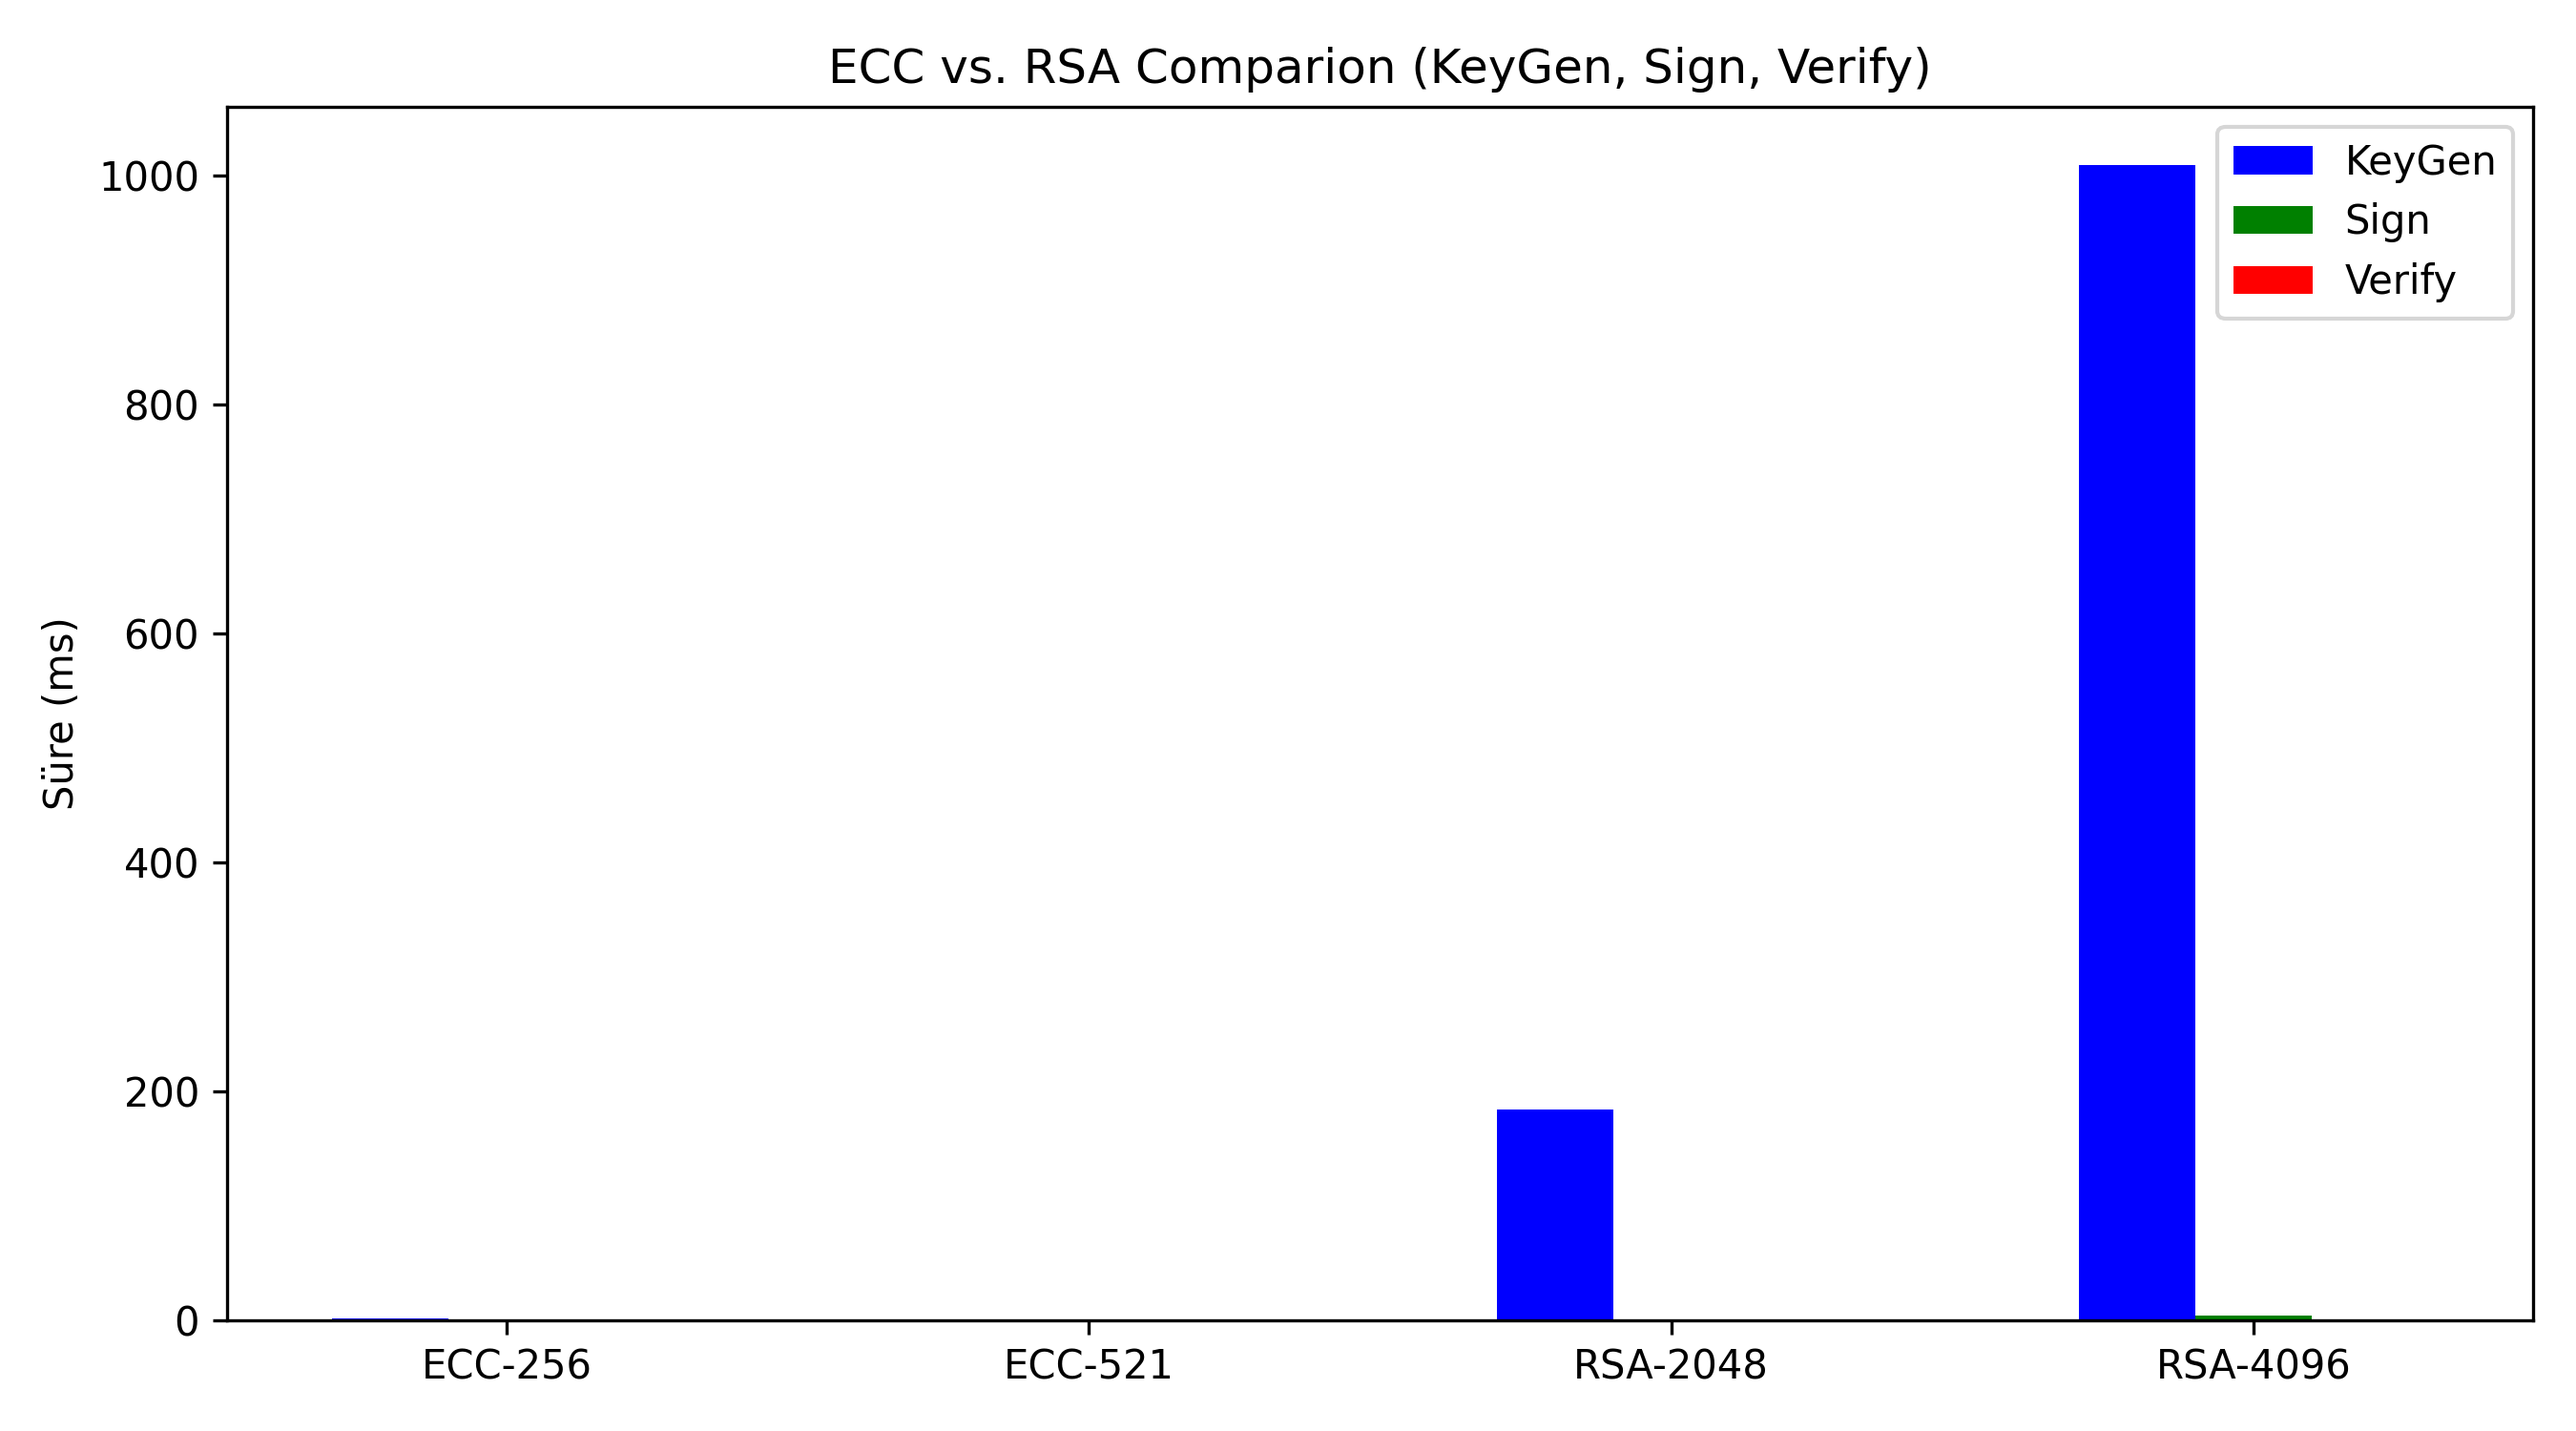
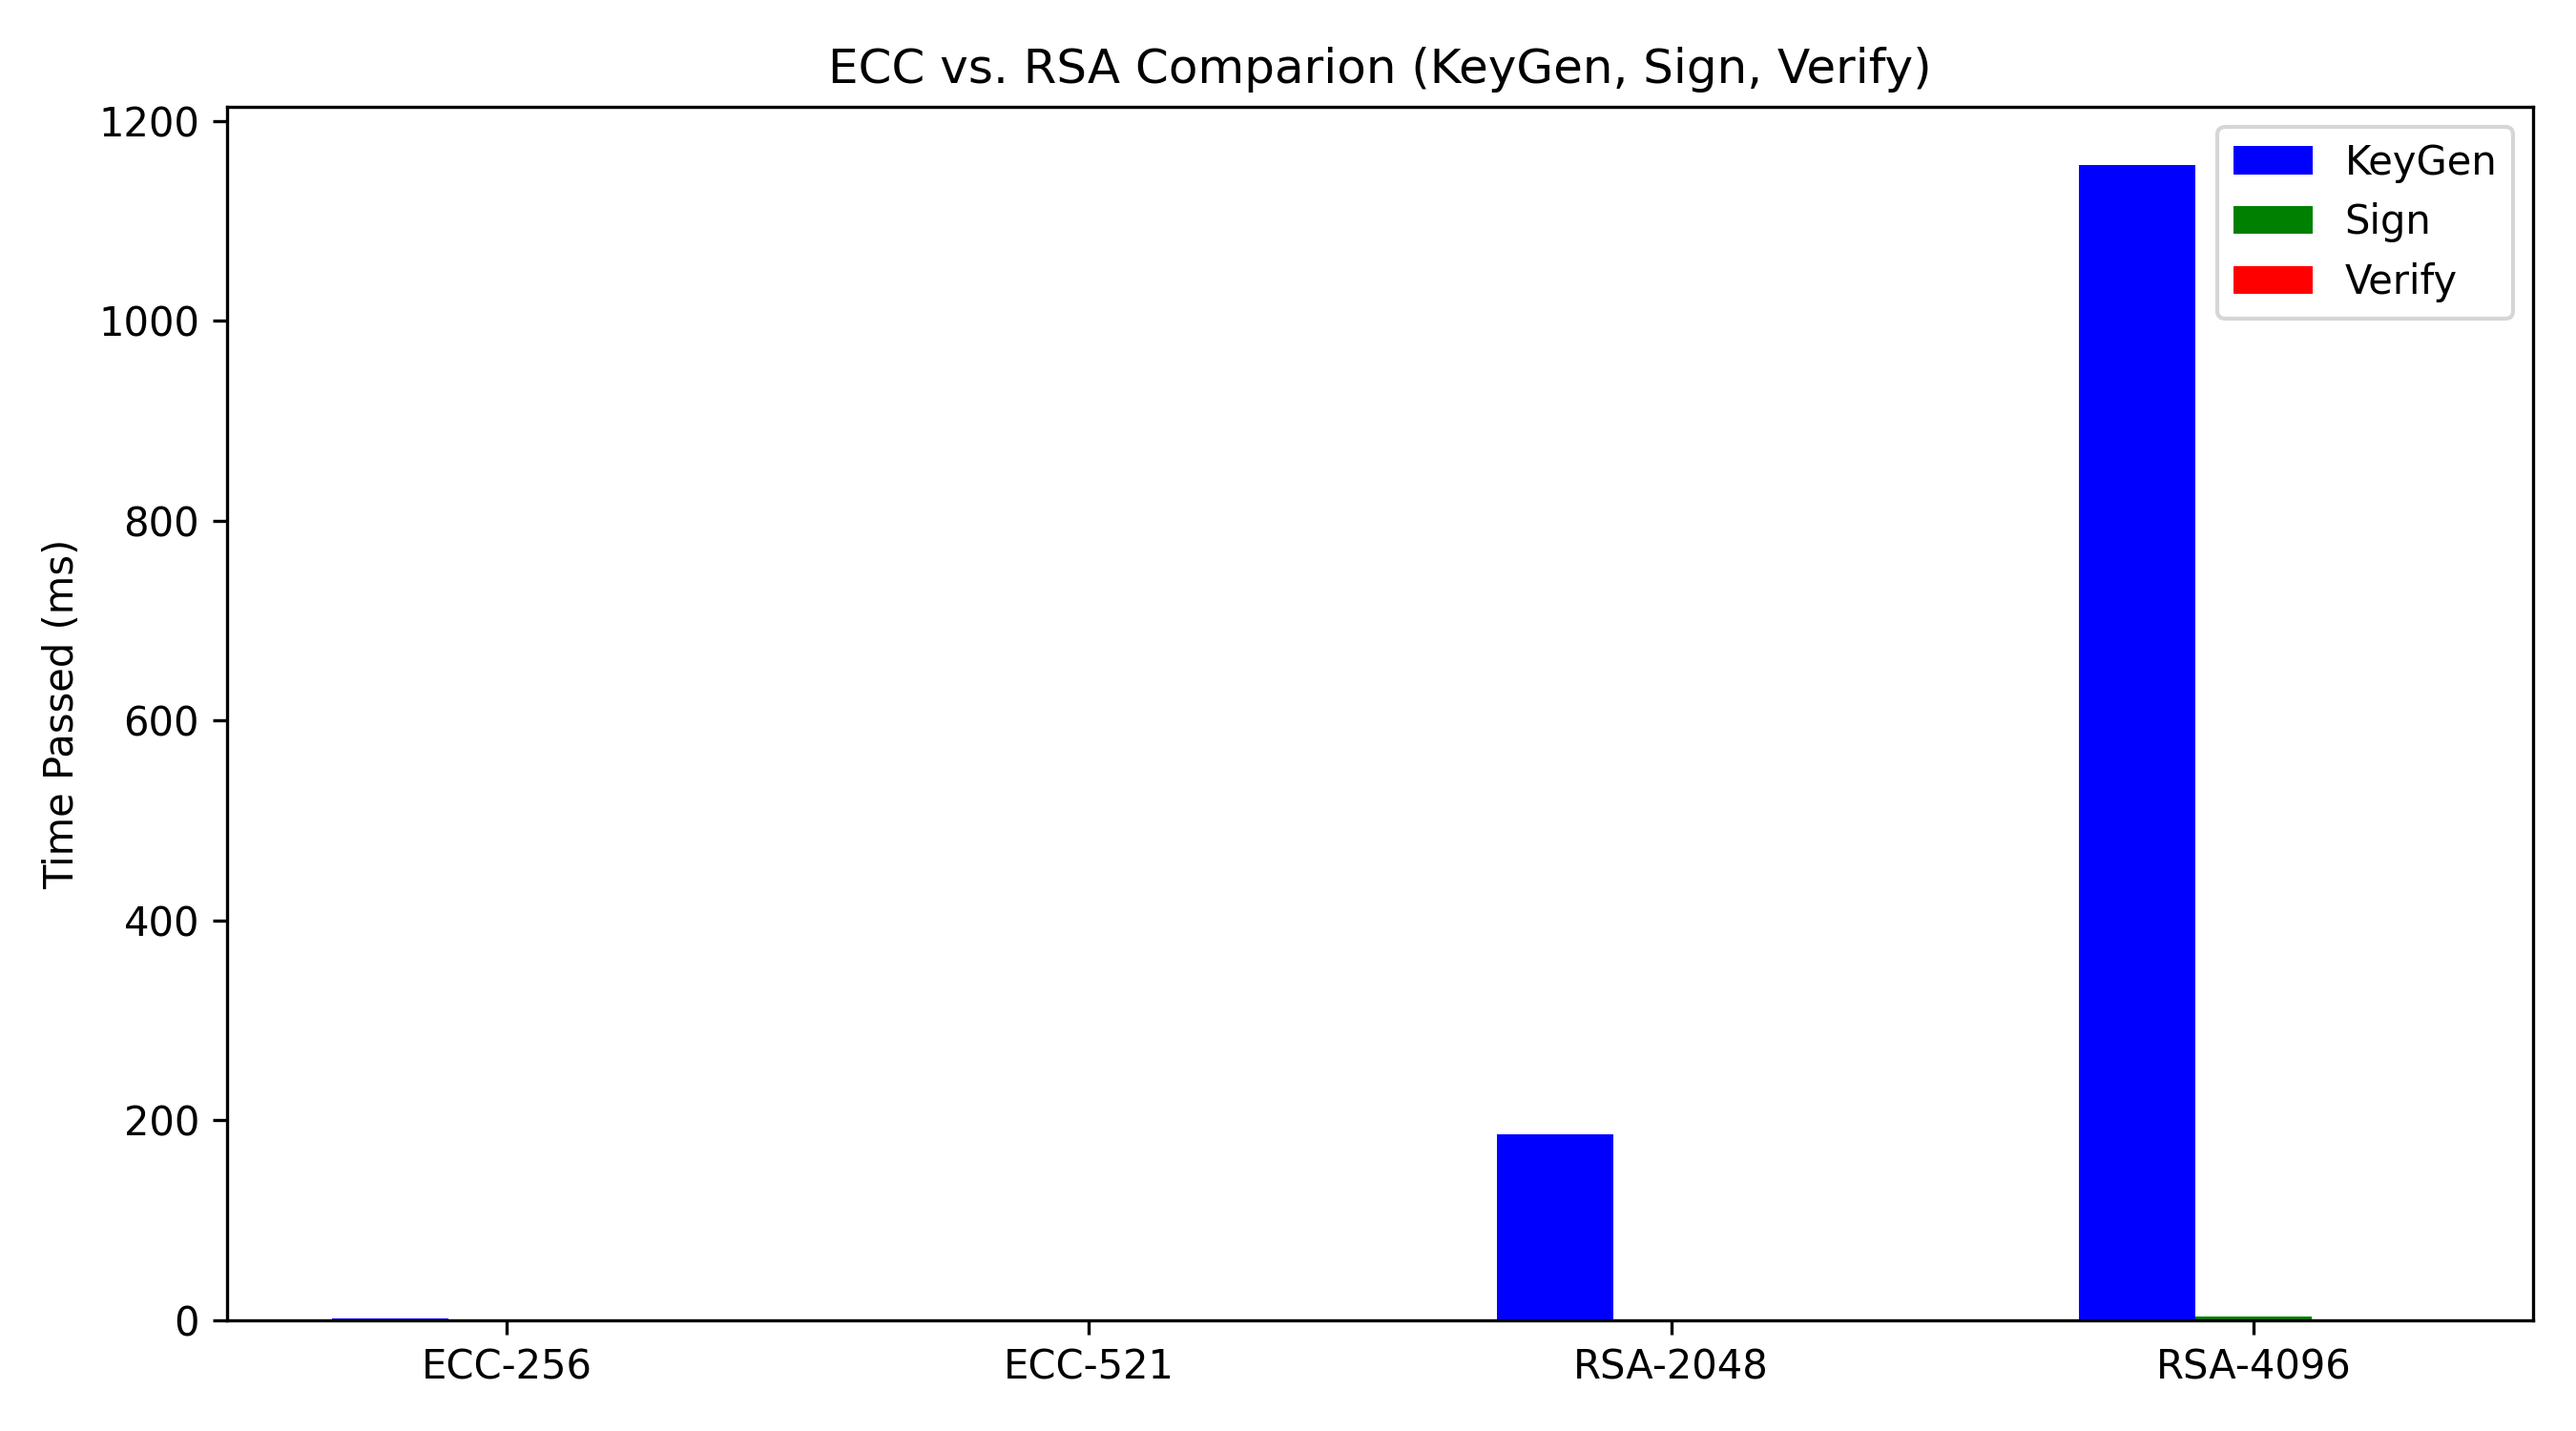
29,12,24

diff --git a/Comparison/time based comparion/Comparison.py b/Comparison/time based comparion/Comparison.py
@@ -208,7 +208,7 @@ def plot_comparison_chart(results):
 
     # X ekseninde algoritma isimleri
     plt.xticks(x_indices, order)
-    plt.ylabel("Süre (ms)")
+    plt.ylabel("Time Passed (ms)")
     plt.title("ECC vs. RSA Comparion (KeyGen, Sign, Verify)")
     plt.legend()
 

diff --git a/ECC_Security/ECC_Security.py b/ECC_Security/ECC_Security.py
@@ -145,7 +145,7 @@ def plot_results(results):
     # X ekseninin etiketleri
     plt.xticks(x, curve_names)
     plt.xlabel('ECC Curve')
-    plt.ylabel('Süre (ms)')
+    plt.ylabel('Time Passed (ms)')
     plt.title('ECC Performance Comparison')
     plt.legend()
     
